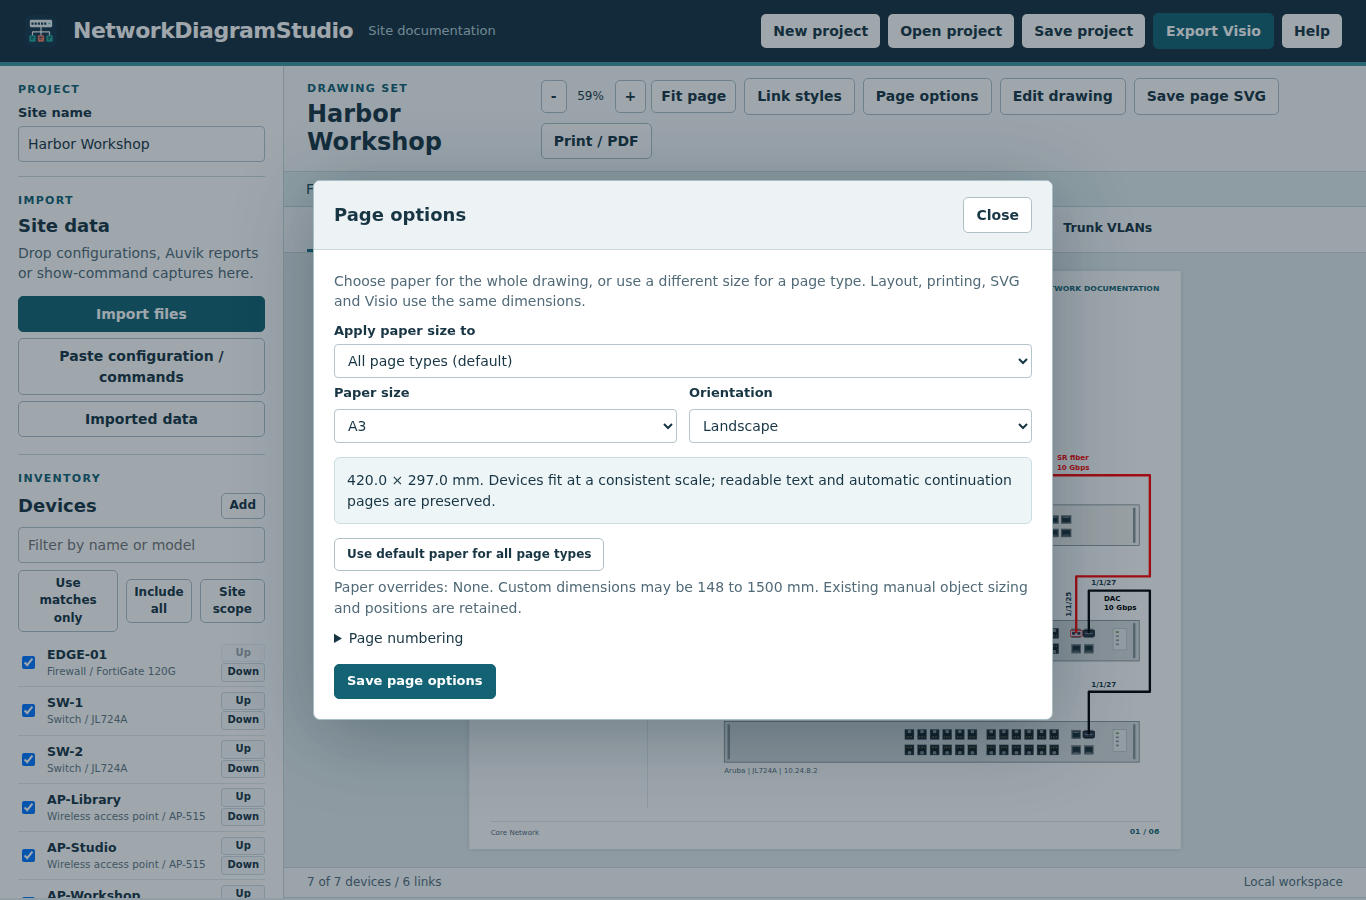
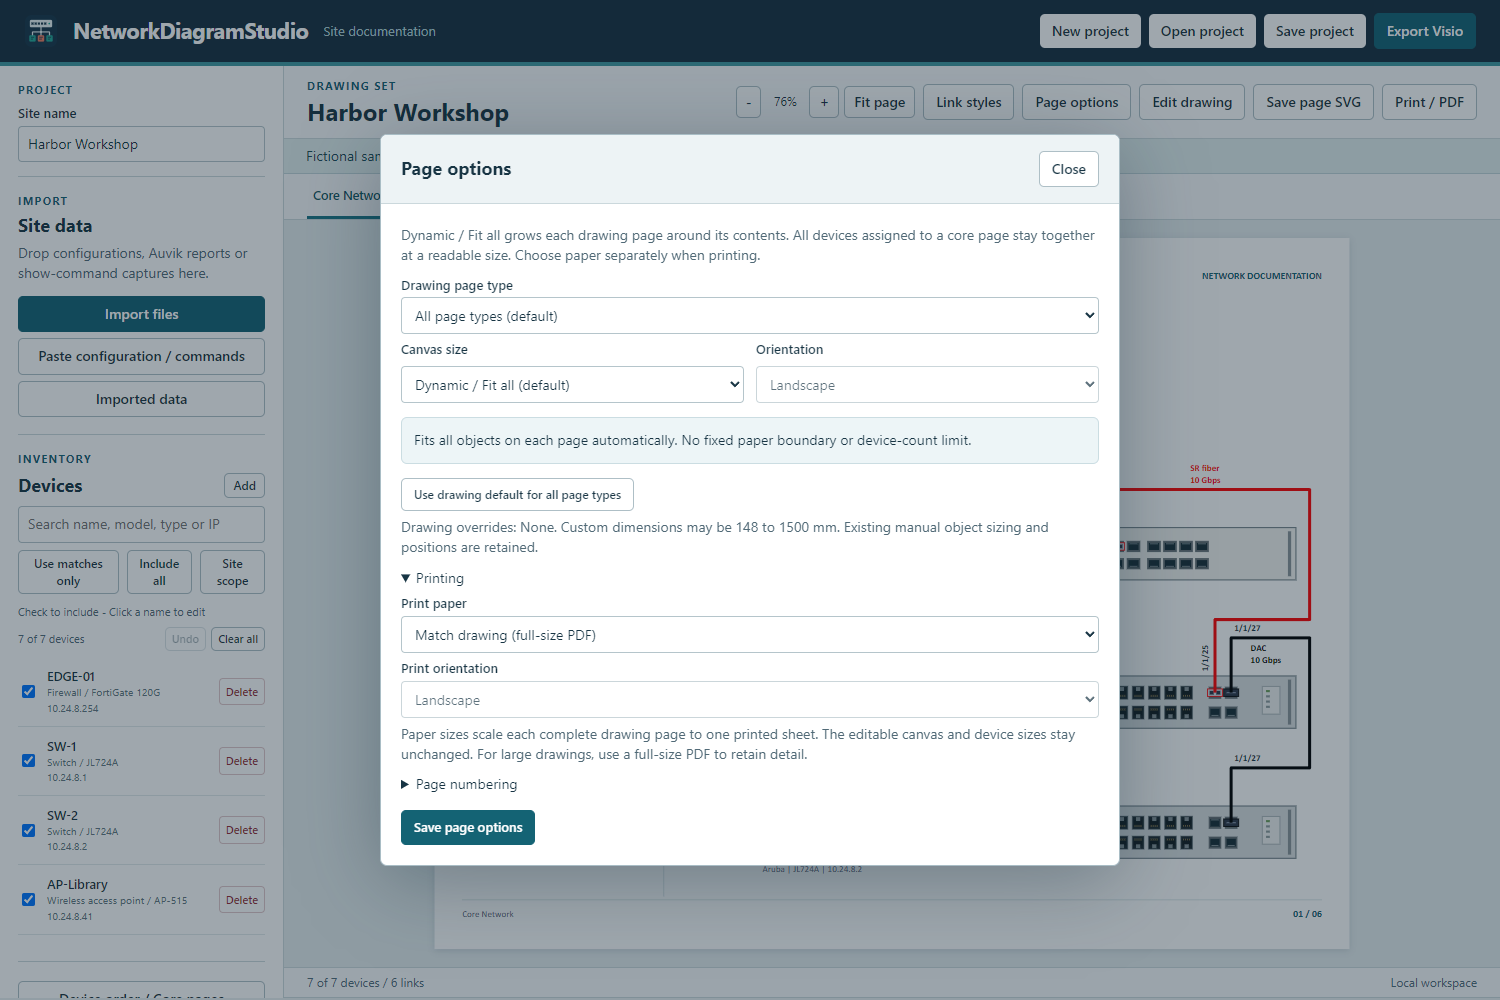
Add dynamic canvas and quick device controls for preview.24

diff --git a/src/web/style.css b/src/web/style.css
@@ -59,3 +59,5 @@
 .update-support{display:flex;gap:14px;margin:13px 0 0}.update-support button,.update-check-action{padding:3px 0;font-size:12px;border:0;background:transparent;color:#536d92;font-weight:400}.update-support button:hover:not(:disabled),.update-check-action:hover:not(:disabled){background:transparent;color:#285fa5;text-decoration:underline}
 .update-footer{flex:none;display:flex;justify-content:space-between;align-items:center;gap:16px;padding:18px 28px;border-top:1px solid #dce5ef;background:#f9fbfe}.update-actions{display:flex;justify-content:flex-end;gap:9px;flex-wrap:wrap}.update-actions button{display:inline-flex;align-items:center;justify-content:center;gap:8px;font-size:12.5px;font-weight:600;padding:10px 15px;border:1px solid #d5e0ef;border-radius:7px;background:white;white-space:nowrap}.update-actions .primary{background:#396eb7;border-color:#396eb7;color:white;box-shadow:0 3px 7px #396eb71c}.update-actions .primary:hover:not(:disabled){background:#2d5f9f;border-color:#2d5f9f}.update-actions svg{width:16px;height:16px;flex:none}.update-panel [hidden]{display:none!important}
 @media(max-width:600px){#dialog.update-dialog{width:calc(100vw - 16px);max-height:calc(100dvh - 16px);border-radius:10px}.update-dialog .modalhead{padding:18px 18px 6px}.update-dialog #dialog-title{font-size:16px}.update-subtitle{padding:0 18px 17px}.update-content{padding:18px}.update-notes{padding:14px}.update-footer{padding:14px 18px;gap:10px;flex-wrap:wrap}.update-actions{margin-left:auto}.update-actions button{padding:9px 11px}.update-banner{padding:8px 12px}.update-banner span{display:block;margin:2px 0}}
+
+.device-list-hint{font-size:11px;margin:3px 0 7px}.device-list-actions{display:flex;align-items:center;gap:5px;margin-bottom:6px}.device-list-actions span{font-size:11px;color:#526d7b;margin-right:auto}.device-list-actions button{padding:3px 6px;font-size:11px}.device-row{cursor:default;padding:3px 0}.device-row .device-details{white-space:normal;overflow-wrap:anywhere}.device-row small{white-space:normal}.device-row .delete-device{flex:0 0 auto;align-self:center;padding:5px 6px;border:1px solid #e0c6c9;border-radius:4px;color:#9a2931;font-size:11px}.device-row .delete-device:hover,.danger:hover{background:#fff0f0!important;border-color:#a6323f!important}.device-row.excluded .device-details{opacity:.55}.danger{color:#9a2931;border-color:#b96c74}

diff --git a/src/web/index.html b/src/web/index.html
@@ -6,7 +6,7 @@
 <aside aria-label="Project workspace">
   <section><p class="eyebrow">PROJECT</p><label for="site">Site name</label><input id="site" maxlength="120" value="Untitled site"></section>
   <section id="drop"><p class="eyebrow">IMPORT</p><h2>Site data</h2><p class="hint">Drop configurations, Auvik reports or show-command captures here.</p><button class="primary full" id="import">Import files</button><button class="full" id="paste">Paste configuration / commands</button><button class="full" id="evidence">Imported data</button></section>
-  <section><p class="eyebrow">INVENTORY</p><div class="section-head"><h2>Devices</h2><button id="add-device">Add</button></div><input id="filter" type="search" aria-label="Filter devices" placeholder="Filter by name or model"><div class="scope-actions"><button id="matches">Use matches only</button><button id="all">Include all</button><button id="auto-scope">Site scope</button></div><div id="devices" class="list"></div></section>
+  <section><p class="eyebrow">INVENTORY</p><div class="section-head"><h2>Devices</h2><button id="add-device">Add</button></div><input id="filter" type="search" aria-label="Filter devices" placeholder="Search name, model, type or IP"><div class="scope-actions"><button id="matches">Use matches only</button><button id="all">Include all</button><button id="auto-scope">Site scope</button></div><p class="hint device-list-hint">Check to include - Click a name to edit</p><div class="device-list-actions"><span id="device-count">0 devices</span><button id="undo-devices" disabled>Undo</button><button id="clear-devices" disabled>Clear all</button></div><div id="devices" class="list"></div></section>
   <section><button class="full" id="arrange">Device order / Core pages</button></section>
   <section><div class="section-head"><h2>Connections</h2><button id="add-link">Add</button></div><button id="review-links" class="full">Review links <span id="link-count"></span></button></section>
   <section><div class="section-head"><h2>Hardware</h2><button id="hardware">Manage</button></div><p id="art-count" class="hint">Local stencil library</p></section>

diff --git a/tests/desktop/NativeSmoke.cs b/tests/desktop/NativeSmoke.cs
@@ -147,10 +147,14 @@ internal sealed partial class Studio
     async Task CheckPageSetup()
     {
         await ClickEditorTarget("#page-options");
-        await RequireEditor("const field=name=>[...document.querySelectorAll('#dialog-body label')].find(l=>l.textContent===name)?.control;field('Paper size').value='a3';field('Paper size').dispatchEvent(new Event('input'));[...document.querySelectorAll('#dialog button')].find(b=>b.textContent==='Save page options').click()","A3 page setup");
+        await RequireEditor("const field=name=>[...document.querySelectorAll('#dialog-body label')].find(l=>l.textContent===name)?.control;if(field('Canvas size').value!=='dynamic')throw Error('New drawings must default to Dynamic / Fit all');const box=document.querySelector('#canvas svg').viewBox.baseVal;window.__nativeDynamicBounds=[box.width,box.height];field('Print paper').value='letter';field('Print orientation').value='portrait';[...document.querySelectorAll('#dialog button')].find(b=>b.textContent==='Save page options').click()","independent print paper");
+        await RequireEditor("const box=document.querySelector('#canvas svg').viewBox.baseVal;if(box.width!==window.__nativeDynamicBounds[0]||box.height!==window.__nativeDynamicBounds[1])throw Error('Print paper resized the editable drawing');delete window.__nativeDynamicBounds","print preserves dynamic canvas");
+        await ClickEditorTarget("#page-options");
+        await RequireEditor("const field=name=>[...document.querySelectorAll('#dialog-body label')].find(l=>l.textContent===name)?.control;if(field('Print paper').value!=='letter'||field('Print orientation').value!=='portrait')throw Error('Print setup was not retained');field('Print paper').value='drawing'","print paper persistence");
+        await RequireEditor("const field=name=>[...document.querySelectorAll('#dialog-body label')].find(l=>l.textContent===name)?.control;field('Canvas size').value='a3';field('Canvas size').dispatchEvent(new Event('input'));[...document.querySelectorAll('#dialog button')].find(b=>b.textContent==='Save page options').click()","A3 page setup");
         await RequireEditor("const box=document.querySelector('#canvas svg').viewBox.baseVal;if(Math.abs(box.width-1587.401575)>0.01||Math.abs(box.height-1122.519685)>0.01)throw Error('Paper setup did not change the drawing bounds')","A3 scene bounds");
         await ClickEditorTarget("#page-options");
-        await RequireEditor("const field=name=>[...document.querySelectorAll('#dialog-body label')].find(l=>l.textContent===name)?.control;if(field('Paper size').value!=='a3')throw Error('Paper setting was not retained');field('Paper size').value='original';[...document.querySelectorAll('#dialog button')].find(b=>b.textContent==='Save page options').click()","restore original paper");
+        await RequireEditor("const field=name=>[...document.querySelectorAll('#dialog-body label')].find(l=>l.textContent===name)?.control;if(field('Canvas size').value!=='a3')throw Error('Paper setting was not retained');field('Canvas size').value='original';[...document.querySelectorAll('#dialog button')].find(b=>b.textContent==='Save page options').click()","restore original paper");
         await RequireEditor("if(document.querySelector('#canvas svg').viewBox.baseVal.width!==1200)throw Error('Original page dimensions were not restored')","original scene bounds");
     }
     internal string? TestOutputFolder;
@@ -276,9 +280,9 @@ internal sealed partial class Studio
         await CheckEditRecovery();
         await CheckLegendConnections();
         await CheckAddDevice();
+        await ClickEditorTarget("#arrange");
         await ClickEditorTarget("[aria-label='Up SW-1']");
         await RequireEditor("if(document.querySelector('#devices .device-row').dataset.deviceId!=='sw-1') throw Error('Device ordering failed')","device order");
-        await ClickEditorTarget("#arrange");
         await RequireEditor("[...document.querySelectorAll('#dialog button')].find(button=>button.textContent==='Add core page').click()","add named page");
         await RequireEditor("const name=[...document.querySelectorAll('[aria-label=\"Core page name\"]')].at(-1); if(!name) throw Error('New page name field missing'); name.value='Native test rack'; name.dispatchEvent(new Event('change'))","rename core page");
         await RequireEditor("const target=document.querySelector('[aria-label=\"Core page for SW-1\"]'); const option=[...target.options].find(option=>option.textContent==='Native test rack'); if(!option) throw Error('Named page missing from choices'); target.value=option.value; target.dispatchEvent(new Event('change'))","assign named page");

diff --git a/README.md b/README.md
@@ -16,7 +16,7 @@ Network engineers can use the Windows application or the offline browser edition
 - Prefer straight or simple orthogonal core cables, with consistent exterior lanes when needed and jumps at crossings. Nearby device titles move to accommodate clearer routes. Core and wireless sheets include an editable link-color legend. Cross-page links identify the other sheet.
 - Import supported picture and vector Visio masters from files or recursively scanned folders. Search master names directly in the picker, or click a device to search local stencils. Embedded connection points retain their names and positions, including unnamed points and grouped/rotated artwork. Duplicate names stay as separate editable points instead of being merged.
 - Drag mapped port markers; align a selected row or column and distribute ports evenly. The sourced native hardware catalog includes model-specific faceplates, declared stack members and chassis modules. Confirm member and module models directly in Device details.
-- Choose paper size and orientation in Page options: Letter, Legal, Tabloid, A5 through A1, or custom dimensions (148 to 1500 mm). Use a drawing default or different sizes for each page type. Tables reflow, hardware keeps a common scale, and extra pages are created as needed. SVG, print/PDF and Visio preserve the selected page dimensions. Tiny faceplate number overlays are omitted when they cannot be printed legibly; complete port records remain in the tables.
+- New drawings use **Dynamic / Fit all**. Core pages grow to keep all assigned devices together at a common readable scale, including labels, cables and objects moved beyond the original edges. Choose a fixed drawing size when desired, and choose separate print paper in **Page options**. Printing fits each complete drawing page onto the chosen sheet without resizing the editable devices.
 - Zoom, pan and Fit page. In Edit drawing, box-select or Shift/Ctrl-click items, move them with the mouse or arrow keys, align edges or centers, and distribute spacing. Configure grid snapping and alignment guides. Double-click text to type directly on the diagram; double-click other elements for properties. Ctrl+Z, Ctrl+Shift+Z and Undo all apply to project changes. Alt-drag selects native panel details.
 - Select cable type and link speed in line properties, the connection editor or a legend swatch. Legend choices update associated connection records across the drawing. Choose Copper, generic/MMF/SMF fiber, SR/LR/ER/ZR, DAC variants, AOC/AEC, coaxial or serial; use speed presets or enter custom values. Captions and active legends follow the selected type.
 - Edit cable bends directly, reconnect either end to a selected device/port, and customize line color/opacity or text color with a visual selector, HEX field and standard swatches. Link styles shares colors and titles/descriptions between cables and their legend entries. Legends include only the styles used on each sheet. Automatic cables and their color keys use a consistent standard thickness; exported Visio line widths are explicit and editable.
@@ -28,23 +28,14 @@ Network engineers can use the Windows application or the offline browser edition
 
 ## Screenshots
 
-**Shared family drawings with model-confirmation guidance**
+**A dynamic canvas keeps the complete core network together.**
+<p align="center"><img src="docs/images/hero.png" width="900" alt="Fictional Harbor Workshop core network on a dynamic canvas"></p>
 
-<p align="center"><img src="docs/images/hardware-families.png" width="900" alt="Fictional FortiGate 201G, Cisco 9500 family and compact Aruba family with mapped links"></p>
+**Drawing size and print paper are separate choices.**
+<p align="center"><img src="docs/images/page-options.png" width="900" alt="Dynamic Fit all canvas with independent printing controls"></p>
 
-**Modular chassis with proportional slots and editable sockets**
-
-<p align="center"><img src="docs/images/modular-port-map.png" width="900" alt="Fictional Aruba 5406R chassis with installed optical and copper cards and grouped port details"></p>
-
-**Stack and switch port maps at a common scale**
-
-<p align="center"><img src="docs/images/port-map.png" width="900" alt="Fictional two-member stack and standalone switch with equal faceplate widths and a shared assignment table"></p>
-
-**Update review with formatted notes and fixed actions**
-
-![Polished install review with formatted release notes and fixed actions](docs/images/update-panel.png)
-
-More views: [Model confirmation](docs/images/hardware-confirmation.png), [paper size controls](docs/images/page-options.png), and [wireless model and MAC details](docs/images/wireless-models.png).
+**Delete devices from the list, or clear the inventory with Undo available.**
+<p align="center"><img src="docs/images/device-controls.png" width="900" alt="Device inventory with per-row Delete and a clear-all confirmation"></p>
 
 ## Download
 
@@ -114,7 +105,11 @@ In **Edit drawing**, select a cable. Drag a square handle to move a bend, click 
 
 **Link styles** configures colors, opacity and separate titles/descriptions for connection captions and legend entries. Editing a cable color or a legend swatch updates all cables of that link type and their legends throughout the drawing. The legend editor also offers cable-type and speed presets plus Custom fields. Saving updates the actual associated links, captions and legend speed summary in one undoable action. Mixed values stay unchanged until explicitly replaced. Existing connections already in the destination type keep their own speeds. Custom captions, positions, bends and widths remain editable. Double-click a legend title to rename it directly. Text color is independent of cable color. Wireless connection captions show the port and speed without evidence-status wording.
 
-**Page options** shows or hides page numbers, chooses their starting number and padding, and sets a format. Use {page} for the current number, {last} for the final number and {total} for the sheet count. The default is a two-digit number such as 01 / 07. These settings persist in the project.
+**Page options** separates **Canvas size** from **Print paper**. Dynamic / Fit all is the default for new drawings; existing explicit paper choices are retained. Choose **Match drawing (full-size PDF)** for the full canvas, or Letter, Legal, Tabloid, A5 through A1, or custom print dimensions (148 to 1500 mm) to fit each drawing page onto a printed sheet. Other documentation views retain their logical sections and connection banks.
+
+The device list shows each name, model/type and management IP, with a **Delete** button beside each device. The checkbox includes or excludes a device from the drawing. **Clear all** confirms the total inventory, including filtered or excluded devices; **Undo** restores devices and their connections.
+
+**Page options** also shows or hides page numbers, chooses their starting number and padding, and sets a format. Use {page} for the current number, {last} for the final number and {total} for the sheet count. The default is a two-digit number such as 01 / 07. These settings persist in the project.
 
 Use **Core page** in **Device details** or **Device order / Core pages** to assign equipment to an existing page, create a dedicated page, or return it to automatic placement. Selecting any current layout page saves that sheet's device group as a named page, including a continued sheet. Existing group connection preferences are retained. Named pages can show all, some, or none of their off-page connection references.
 

diff --git a/DEVELOPMENT_HANDOFF.md b/DEVELOPMENT_HANDOFF.md
@@ -1,3 +1,13 @@
+## Preview.24 release candidate: dynamic canvas and device inventory
+
+Prepares preview.24 from published preview.23 on feat/dynamic-canvas-devices. The user requested availability in the app updater. Publish through the existing intent-gated PR and main workflow; require the exact-head Windows validation and merged-main publication to succeed, then verify the public feed and downloaded assets before announcing availability. The Windows updater continues to use the existing release feed.
+
+The drawing preset now defaults to dynamic, while explicit saved paper sizes retain their old behavior. Core packing keeps a named or automatic group on one page, measures complete devices and connections, and expands route clearance without reducing device width. Final bounds include nested objects and manual negative positions. SVG uses the actual viewBox origin; native Visio normalizes an export-only copy. Print paper is separate, with whole-page fitting in CSS and Visio. Other documentation views retain their semantic grouping.
+
+Device list rows show identity, type/model, IP and direct Delete. Clear all confirms the total inventory, independent of filtering. Undo and evidence tombstones restore/preserve the expected inventory. Explicit WAN handoff deletion suppresses the corresponding inferred handoff. Fixed-paper tests now explicitly select the original paper preset.
+
+Validation commands remain node scripts/check-repo.mjs, node --test, node scripts/build-web.mjs, scripts/export-test-fixtures.mjs and scripts/check-visio-package.py. Added coverage includes 100 devices on one named page, a 24-link hub, negative/outside object bounds, print-size independence, Visio fit settings, delete/clear history, evidence recomposition and handoff suppression. Browser checks cover deletion, filtered clear/cancel/undo, default canvas and saved print settings. Final local validation passed all 195 Node tests, seven independent package rejection tests, five Visio drawing/stencil package checks including negative canvas coordinates, Windows release policy/cache/binary checks, and the actual browser workflows. Chromium PDF output was verified as six Letter pages and one full-size dynamic page. Direct desktop Visio rendering was not exercised. Hosted native install/rollback validation must pass before publication. The native page-setup check now verifies the dynamic default and independent print paper, then exercises the retained fixed-page mode; ordering is tested through Device order / Core pages.
+
 ## Preview.23 polished update review
 
 Prepares 0.1.0-preview.23 / file version 0.1.0.23 from published preview.22 at 30867b32f8b95952091185b3756ad72671266588. Preview.22 passed PR #18 Windows run 42408150968 and merged-main publication run 42408769625; the public feed, tag, downloaded checksums, Windows version/icon and 62 offline modules were verified. Standing build/release authorization continues. Require exact-head Windows success, merged-main publication and verification of public downloads before announcing preview.23.

diff --git a/AGENTS.md b/AGENTS.md
@@ -110,3 +110,5 @@ The native lifecycle harness must isolate its deterministic HTTP fixture from li
 Family-layout inference requires a complete port signature plus platform evidence. Keep family-only geometry distinct from exact SKU and optical speed claims. Declared identities supersede inferred families in either import order, while disabling evidence or manual edits retains normal provenance behavior. Reject NUL-bearing restore backups with readable-export guidance instead of extracting a misleading partial device. Manufacturer geometry corrections belong in researched-layouts.mjs with primary references; retain slot-qualified anchors and labeled unknown-member fallback artwork without fabricated sockets.
 
 The update review uses the shared dialog with a scoped update-dialog class and a fixed action footer. Preserve the visible #close target for native input tests and reset styling when another dialog opens. Render release headings, bullets and inline emphasis with DOM text nodes only; never interpret remote HTML or activate release-note links. Keep notes scroll position and button focus through native progress refreshes. Do not promise restoration of unsaved projects; retain the native final save/restart confirmation and all existing download/install guards.
+
+Dynamic / Fit all is the default only when a project has no explicit paper preset. Keep printPaper independent of the drawing default/overrides. Core dynamic groups must never use device-count or incident-link pagination; retain fixed-paper continuation as an explicit option. Fit bounds include nested artwork, cable geometry and negative manual coordinates without translating saved edits. Normalize only the exported Visio copy. Bound routing optimization and label candidate allocation for large pages. Device removal is one validated project-history action and must preserve evidence deletion patches; deleting an explicit WAN handoff must not regenerate its inferred duplicate. Use fictional data for capacity and UI checks.

diff --git a/docs/releases/0.1.0-preview.24.md b/docs/releases/0.1.0-preview.24.md
@@ -1,0 +1,9 @@
+# Dynamic canvas and device controls
+
+- New drawings default to Dynamic / Fit all. Every device assigned to a core page stays on that page at its normal scale as the canvas grows.
+- Fit bounds include labels, connection geometry and manual objects outside the original page, including negative positions.
+- Print paper is independent of the canvas. Match the drawing for a full-size PDF, or fit each page onto a selected paper size. SVG and native Visio retain the drawing dimensions.
+- Delete devices directly from the inventory. Clear all includes filtered and excluded devices and has an explicit confirmation. Undo restores devices, connections and page assignments.
+- Search shows counts and device type/model/IP. Removed imported devices remain removed when reopening a project.
+
+For an existing project with a saved paper size, choose **Page options > Canvas size > Dynamic / Fit all** to use the expanding canvas. New projects use it automatically.
